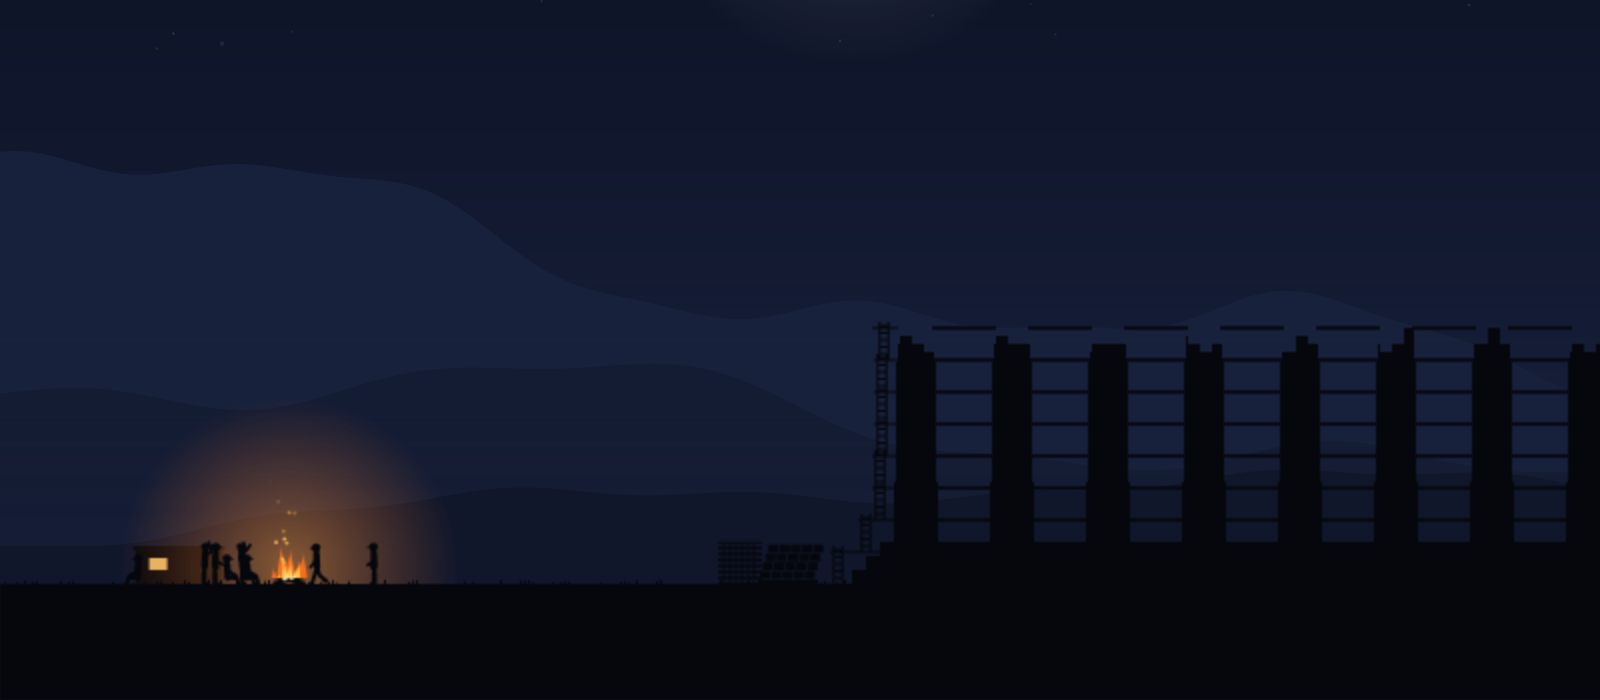
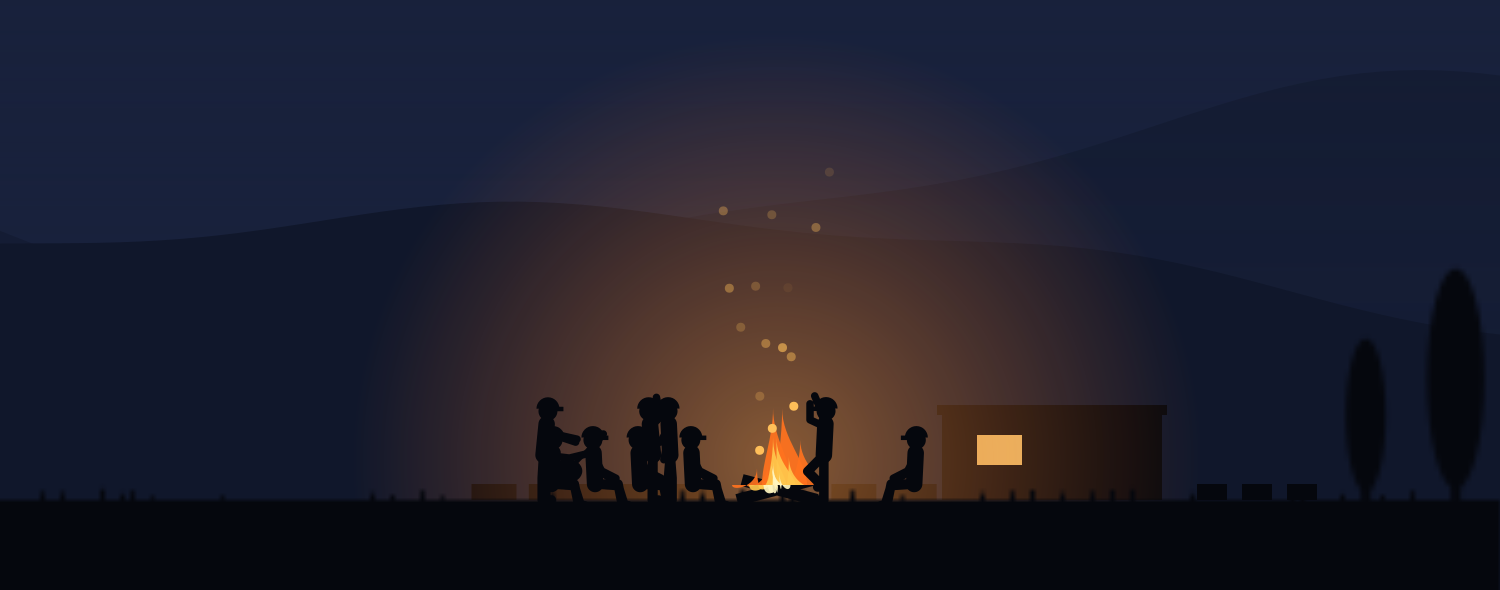
Ready for the plugin marketplace: plugin at the repo root, one-click setup
- The bar widget (manifest.json, Widget.qml) moves to the repo root and
  becomes gpappas.babel, so `omarchy plugin add` accepts the repo. Installed
  that way, the icon shows until Babel is set up and offers "Turn on Babel"
  (babel-theme install): it links the theme folder to the plugin checkout,
  adds the hooks and menu, and switches to Babel. Theme installs work as
  before; setup migrates the old babel.live link.
- The wonder no longer changes on a restart: the order was shuffled with
  Python's per-process hash(); now a stable CRC, and the state file also
  records which wonder is being built.
- Scaffold walkways reach the wall only once there's stone under their far
  end (no more planks hanging over the next unbuilt course).
- README: clear install steps for both routes; new pictures of the
  campfire, umbrellas and the giant ape.

diff --git a/Widget.qml b/Widget.qml
@@ -5,22 +5,23 @@ import Quickshell.Io
 import qs.Commons
 import qs.Ui
 
-// Bar icon for the Babel live theme. Shown only while Babel is the active
-// theme; the popup changes the same settings as `babel-theme` and the
-// Style > Babel menu, by running that command.
+// Bar icon for the Babel live theme. Shown while Babel is the active theme
+// (and, right after installing from the plugin marketplace, until it has been
+// turned on). The popup changes the same settings as `babel-theme` and the
+// Style > Babel menu, by running that command from this checkout.
 Panel {
   id: root
-  moduleName: "babel.live"
-  ipcTarget: "babel.live"
+  moduleName: "gpappas.babel"
+  ipcTarget: "gpappas.babel"
 
   readonly property color foreground: bar ? bar.foreground : Color.foreground
   readonly property color dim: Qt.darker(foreground, 1.55)
   readonly property string fontFamily: bar ? bar.fontFamily : Style.font.family
   readonly property string icon: ""
-  readonly property string cli: Quickshell.env("HOME") + "/.config/omarchy/themes/babel/live/babel-theme"
+  readonly property string cli: decodeURIComponent(Qt.resolvedUrl("live/babel-theme").toString().replace(/^file:\/\//, ""))
 
   property bool themeActive: false
-  property var st: ({ cycle: "", sky: "", skyLoop: "", background: "live", weather: "live", weatherNow: "",
+  property var st: ({ setUp: true, cycle: "", sky: "", skyLoop: "", background: "live", weather: "live", weatherNow: "",
                       wonders: [], disasters: [], monitors: [] })
 
   readonly property string statusLine: {
@@ -47,8 +48,11 @@ Panel {
     if (!statusProc.running) statusProc.running = true
   }
 
-  visible: themeActive
-  implicitWidth: themeActive ? button.implicitWidth : 0
+  // fresh from the marketplace, Babel isn't set up yet: show the icon so it can be turned on
+  readonly property bool shown: themeActive || !root.st.setUp
+  visible: shown
+  implicitWidth: shown ? button.implicitWidth : 0
+  Component.onCompleted: refresh()
   implicitHeight: button.implicitHeight
   onOpenedChanged: if (opened) { refresh(); Qt.callLater(function() { keys.forceActiveFocus() }) }
 
@@ -158,6 +162,24 @@ Panel {
             meta: root.statusLine
             foreground: root.foreground
             fontFamily: root.fontFamily
+          }
+
+          Column {
+            visible: !root.themeActive
+            width: parent.width
+            spacing: Style.space(8)
+            Text {
+              width: parent.width
+              wrapMode: Text.Wrap
+              text: "Babel is a live wallpaper theme. Turning it on adds the bar icon and a Style > Babel menu, starts the wallpaper whenever Babel is your theme, and switches to it now."
+              color: root.dim
+              font.family: root.fontFamily
+              font.pixelSize: Style.font.caption
+            }
+            Chip {
+              text: "Turn on Babel"
+              onClicked: { root.close(); root.run(["install"]) }
+            }
           }
 
           PanelSeparator { foreground: root.foreground }

diff --git a/live/engine/world.py b/live/engine/world.py
@@ -10,6 +10,7 @@ import itertools
 import math
 import random
 import time
+import zlib
 
 import cairo
 
@@ -53,7 +54,9 @@ class World:
         self.cycle_override = cycle
         self.persist = persist
         self.clock = clock
-        seed = seed if seed is not None else hash(key) & 0xffff
+        # a stable seed (Python's hash() changes every run), so the order of the
+        # wonders is the same after a restart
+        seed = seed if seed is not None else zlib.crc32(key.encode()) & 0xffff
         self.rng = random.Random(seed ^ int(time.time()))
         self.landscape = Landscape(W, H, self.ground, seed)
         self.sil = palette(20)["sil"]
@@ -115,6 +118,8 @@ class World:
         length = self.cycle_len()
         if state and not cycle:
             start, index = state["start"], state["index"]
+            if state.get("monument") in MONUMENTS and not first_monument:
+                self.first_monument = state["monument"]  # carry on with the same wonder
             if now >= start + length:  # the cycle ended while we were off: show the finale soon
                 start = now - length + 20
         else:
@@ -176,11 +181,11 @@ class World:
     def begin_cycle(self, start, index):
         self.cycle_start, self.index = start, index
         self.build_schedule()
-        if self.persist and not self.cycle_override:
-            save_state(self.key, {"start": start, "index": index})
         enabled = [n for n in self.order if n in self.config.wonders] or self.order
         name = self.first_monument or enabled[index % len(enabled)]
         self.first_monument = None
+        if self.persist and not self.cycle_override:
+            save_state(self.key, {"start": start, "index": index, "monument": name})
         for block in BLOCK_SCALES:
             self.mon = Monument(name, self.rng, scale=self.u, block=block)
             self.layout_site()
@@ -473,7 +478,7 @@ class World:
             frac = (now - self.cycle_start) / old_len
             self.cycle_start = now - frac * self.cycle_len()
             if self.persist:
-                save_state(self.key, {"start": self.cycle_start, "index": self.index})
+                save_state(self.key, {"start": self.cycle_start, "index": self.index, "monument": self.mon.name})
         self.build_schedule()
         self.crew, self.base_timelapse = self.plan_crew()
         self.timelapse = self.base_timelapse

diff --git a/live/engine/site.py b/live/engine/site.py
@@ -108,9 +108,15 @@ class Scaffold:
                 cr.move_to(x - 2.2 * u, r)
                 cr.line_to(x + 2.2 * u, r)
                 r -= 3.5 * u
-            if k >= 1:  # walkway from past the ladders to the wall at this level
+            if k >= 1:  # walkway from past the ladders to the wall at this level...
                 y = w.level_y(lv)
                 lo, hi = w.walkway(side, lv)
+                wall_end = hi if side == 0 else lo
+                # ...once there's stone under its far end to rest on; until then
+                # just a landing at the top of the ladder
+                if not w.solid_near(wall_end + (2 if side == 0 else -2) * u, y + 3 * u, 3 * u):
+                    lad = w.ladder_x(side, lv)
+                    lo, hi = (lo, min(hi, lad + 8 * u)) if side == 0 else (max(lo, lad - 8 * u), hi)
                 cr.move_to(lo, y)
                 cr.line_to(hi, y)
         cr.stroke()

diff --git a/README.md b/README.md
@@ -32,6 +32,8 @@ the world on your desktop, block by block. Then a monster flattens it. Then they
 - **Covered monitors keep going.** They aren't drawn, but the build and the crew carry on in
   the background, so nothing jumps when you look again.
 
+![Umbrellas in the rain, and workers gliding off the Empire State Building as a UFO beams it up](docs/umbrellas.png)
+
 You choose how long a cycle lasts, from one minute (forty workers in time-lapse) to one week
 (a handful of people laying a block every few minutes). Progress follows the wall clock and is
 saved, so a week-long build carries on after a reboot.
@@ -63,6 +65,8 @@ The Lighthouse's fire and the torches of the Colossus and the Statue of Liberty 
 | **UFO** | Hovers overhead and beams the building (and any slow workers) up |
 | **Space battle** | A ringed fortress-planet sends fighters on strafing runs, then fires its main beam |
 
+![The giant ape clinging to the Parthenon's pediment, and standing on a Stonehenge lintel](docs/ape.png)
+
 All of them are original drawings, inspired by myth, H. G. Wells' *The War of the Worlds*
 (public domain) and classic monster-movie tropes.
 
@@ -71,7 +75,7 @@ empty, a couple of seconds after you switch to it, so you don't miss it while yo
 
 ## A living sky
 
-![The crew round the campfire at night](docs/night.png)
+![The crew round the campfire at night: seated on logs, dancing to the guitar](docs/night.png)
 
 - **The real sun and moon.** They rise and set at the real times for your location, follow
   their real paths across the sky, and the moon shows its real phase. Sky colours follow the
@@ -88,22 +92,40 @@ its own (a whole day every 2 minutes to 6 hours), or pin dawn, day, sunset or ni
 
 ## Install
 
+Two ways in, same result. Everything Babel needs (Python 3.11+, PyGObject, pycairo,
+gtk4-layer-shell) is already on a stock Omarchy install.
+
+### From the plugin marketplace (easiest)
+
 ```bash
-omarchy theme install https://github.com/G-Pappas/babel
-~/.config/omarchy/themes/babel/live/babel-theme setup
-omarchy theme set babel
+omarchy plugin add https://github.com/G-Pappas/babel --enable
 ```
 
-`setup` is needed once because Omarchy (rightly) never runs code from a theme on its own. It:
+A Babel icon (a little building) appears on the top bar. **Click it and press _Turn on Babel_.**
+That's all: it sets Babel up and switches your theme to it.
 
-- adds the hooks that start the live wallpaper when you switch to Babel, and stop it when you
-  switch away (and start it again after a reboot);
+### As a theme
+
+```bash
+omarchy theme install https://github.com/G-Pappas/babel
+~/.config/omarchy/themes/babel/live/babel-theme install
+```
+
+The second command matters: Omarchy (rightly) never runs code from a theme on its own, so
+without it you'd only get Babel's colours and a still picture, not the live wallpaper.
+
+### What "Turn on Babel" (or `babel-theme install`) does
+
+- adds the hooks that start the live wallpaper whenever Babel is your theme, stop it when you
+  switch to another theme, and start it again after a reboot;
 - adds the **Babel icon to the top bar** (it hides itself under other themes);
 - adds a **Style > Babel** submenu to the Omarchy menu;
-- links the `babel-theme` command into `~/.local/bin`.
+- links the `babel-theme` command into `~/.local/bin`;
+- switches your theme to Babel.
 
-`babel-theme uninstall` takes all of that out again. Everything Babel needs (Python 3.11+,
-PyGObject, pycairo, gtk4-layer-shell) is already on a stock Omarchy install.
+To leave, just pick another theme (Style > Theme); come back the same way. To remove Babel
+completely, run `babel-theme uninstall`, then `omarchy plugin remove gpappas.babel` or
+`omarchy theme remove babel` (whichever way you installed it).
 
 ## Settings
 
@@ -143,8 +165,11 @@ with no restart.
   cycles the monument is cut into bigger blocks. On cycles of two hours or more the schedule
   only counts daylight hours, so the build still finishes on time despite the nights off.
 - **Hidden monitors cost next to nothing.** A monitor whose workspace has windows on it isn't
-  drawn at all. When you uncover it, the scene catches up instantly to where the build should be.
-  With one monitor showing the scene, Babel uses about 5% of one CPU core.
+  drawn at all, but its scene keeps going in the background at a few updates a second, so the
+  build and the crew are exactly where they should be when you look again. With one monitor
+  showing the scene, Babel uses about 5% of one CPU core.
+- **The crew never hurries.** Their pace is planned once per cycle and never changes; if they
+  fall behind, an extra worker walks in to help.
 - **One scene per monitor**, each building its own wonder.
 
 ### Privacy
@@ -167,7 +192,7 @@ live/babel-live.py --snapshot out.png --monument parthenon --weather storm --hou
 |---|---|
 | `live/babel-live.py` | The app: one layer-shell window per monitor, the frame loop, Hyprland visibility |
 | `live/babel-theme` | Setup, uninstall and settings command |
-| `live/plugin/` | The top-bar widget (an Omarchy shell plugin, `babel.live`) |
+| `manifest.json`, `Widget.qml` | The top-bar widget (an Omarchy shell plugin, `gpappas.babel`) |
 | `live/engine/world.py` | One monitor's scene: the cycle, crew planning, physics rules, drawing |
 | `live/engine/people.py` | The workers: how they're drawn and their jobs |
 | `live/engine/site.py` | Scaffold, delivery trucks and the tower crane |
